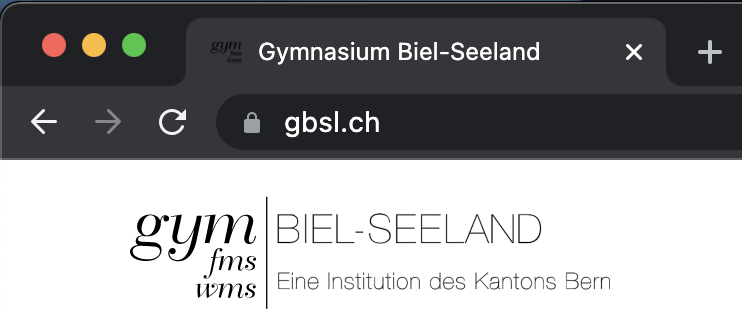
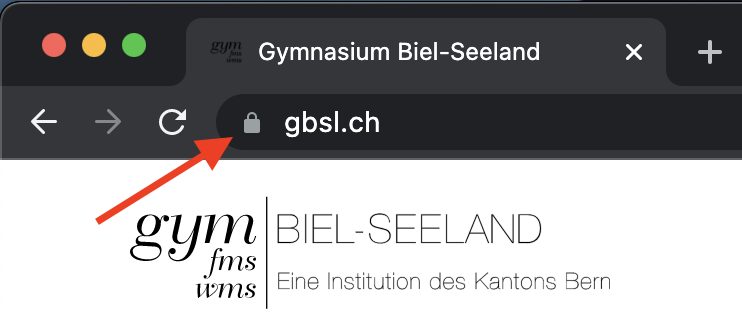
fix layout

Changed region(s): [[0.124, 0.4245, 0.31, 0.7075]]

diff --git a/docs/Kryptologie/07-Alltag/02-browser-zertifikate.md b/docs/Kryptologie/07-Alltag/02-browser-zertifikate.md
@@ -18,7 +18,7 @@ Die **Daten werden symmetrisch** verschlüsselt, der **Sitzungsschlüssel asymme
 
 Da die Browser nicht jeden einzelnen öffentlichen Schlüssel der Webseiten (dies sind gemäss internet live stats hunderte Millionen[^3]) kennen können, vertrauen sie ausgewählten **Zertifizierungsstellen**. Der öffentliche Schlüssel einer Webseite wird von einer Zertifizierungsstelle digital signiert. Das so entstandene Zertifikat wird beim Verbindungsaufbau übertragen und kann vom Browser überprüft werden.
 
-![Webseitenzertifikate](images/https-gbsl.ch.png)
+![Webseitenzertifikate --width=400px](images/https-gbsl.ch.png)
 
 Das Schloss vor der URL zeigt die Verwendung von HTTPS (und Webseitenzertifikaten) an.
 Beim Klicken auf das Schloss können «Weitere Informationen» zur Verbindung angezeigt werden (unter Firefox):
